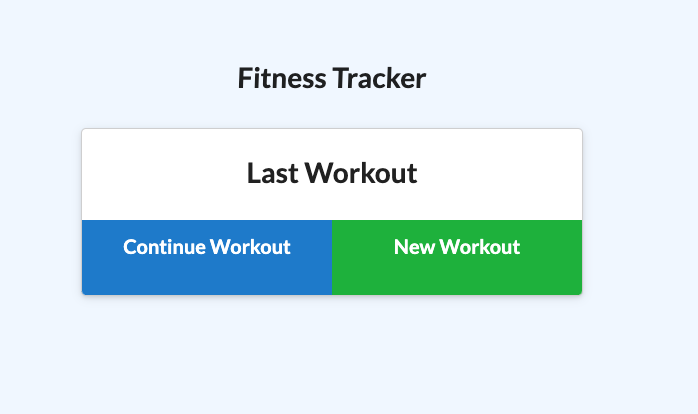
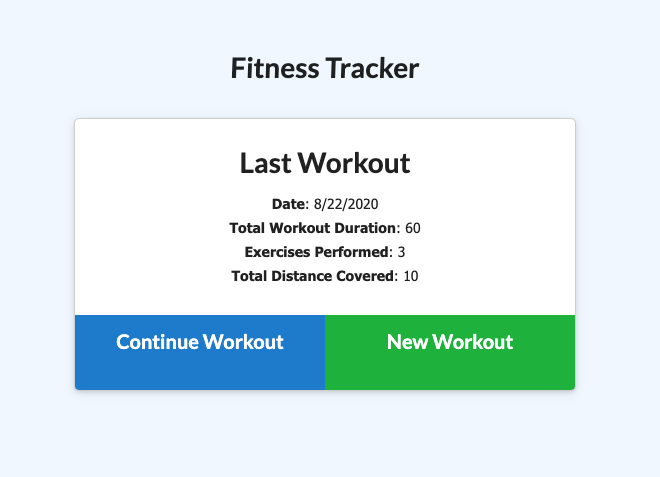
updating photos

Changed region(s): [[0.0909, 0.3188, 0.8788, 0.8406], [0.3333, 0.3188, 0.6364, 0.4928], [0.3333, 0.1159, 0.6364, 0.2319]]

diff --git a/public/workout.js b/public/workout.js
@@ -22,7 +22,7 @@ async function initWorkout() {
 //function to calculate the total duration of exercises. 
 function addDuration(arr) {
   return arr.reduce((accumulator, currentValue) => {
-    return accumulator + currentvalue.duration
+    return accumulator + currentValue.duration
   }, 0)
 }
 
